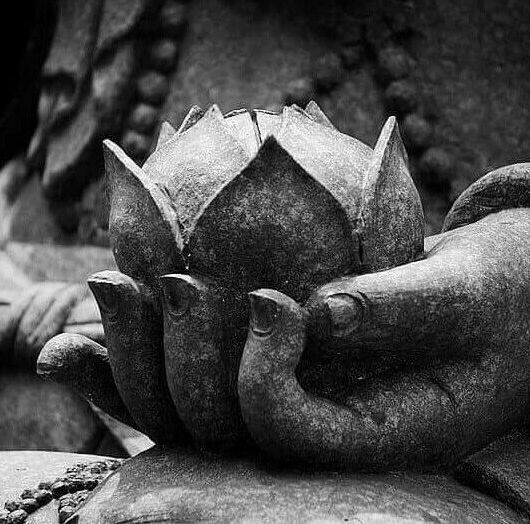
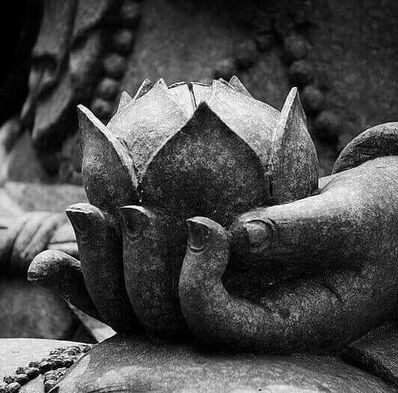
index improved;

Changed region(s): [[0.1206, 0.9466, 0.1508, 1.0], [0.1809, 0.8855, 0.2111, 0.916], [0.1206, 0.8855, 0.1508, 0.916]]

diff --git a/index.html b/index.html
@@ -35,45 +35,48 @@
         <div class="image">
         </div>
 
-        <ul class="middle-list">
-            <!-- bbp start -->
-            <h2>Security Assessment</h2>
+        <ul>
+
+            <h2>Infosec</h2>
 
 
-            <li><a href="./articles/infosec/bug-bounty/burp-setup.html">
-                    Burp Suite basics</a></li>
+            <ul class="middle-list">
+                <h3>Bug Bounty</h3>
 
-            <li> <a href="./articles/infosec/bug-bounty/documetation.html">
-                    Document it all</a></li>
+                <li><a href="./articles/infosec/bug-bounty/burp-setup.html">
+                        Burp Suite setup</a></li>
 
-            <li> <a href="./articles/infosec/bug-bounty/">something here</a></li>
+                <li> <a href="./articles/infosec/bug-bounty/documentation.html">
+                        Document it all</a></li>
+            </ul>
 
+            <ul class="middle-list">
+                <h3>Common Issues</h3>
 
-            <li> <a href="./articles/infosec/bug-bounty/">something else here</a></li>
+                <li><a href="./articles/infosec/issues/gnome-memory.html">
+                    Gnome eating all your RAM
+                </a></li>
+                <li><a href="./articles/infosec/issues/kali-bluetooth.html">
+                    Bluetooth issues on Kali
+                </a></li>
 
-
-            <li><a href="./articles/infosec/bug-bounty/">...</a></li>
-
-
-            <li><a href="./articles/infosec/bug-bounty/">.....</a></li>
+            </ul>
 
         </ul>
-        </ul>
 
-        <!-- bbp over -->
 
-        <ul class="middle-list">
-            <h2>Life</h2>
+        <ul>
+            <h2>Life wisdom</h2>
 
-            <ul>
-                <li><a href="">Truths vs certainties</a></li>
+            <ul class="middle-list">
+                <li><a href="./articles/life-wisdom/ambitiousness.html">Ambitiousness</a></li>
             </ul>
         </ul>
 
         <footer>
             <nav>
                 <ul>
-                    <li>some note</li>
+                    <!-- <li>some note</li> -->
                 </ul>
             </nav>
         </footer>

diff --git a/css/style.css b/css/style.css
@@ -17,8 +17,8 @@ h1 {
 }
 
 h2 {
-    font-size: 30px;
-    margin: 2rem 0 0.5rem 0;
+    font-size: 40px;
+    margin:0.5rem 0;
 }
 h3 {
     font-size: 24px;
@@ -44,7 +44,7 @@ ul {
 .middle-list {
     list-style: armenian;
     list-style-position: inside;
-
+    padding: 1rem 0;
 }
 li {
     margin-bottom: 0.5rem;
@@ -68,7 +68,7 @@ main {
     margin: 20px 0;
 }
 .image {
-    height: 500px;
+    height: 360px;
     background-image: url(../images/lotus.jpg);   
 }
 .image img {
